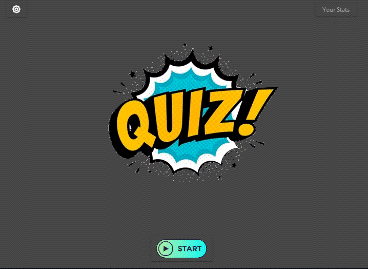
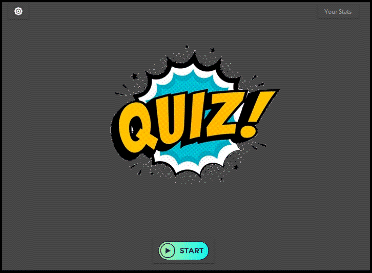
Final
Added frames to pictures.
Made the logo ico file into try and except.

Changed region(s): [[0.0, 0.0, 1.0, 1.0], [0.269, 0.1487, 0.7473, 0.6543]]

diff --git a/main_beta.py b/main_beta.py
@@ -306,8 +306,10 @@ while True :
     final=ttk.Frame(home)
     enter_name=ttk.Frame(home)
     #frames declaration end -->
-
-    home.iconbitmap("Assets/logo.ico")
+    try:
+        home.iconbitmap("Assets/logo.ico")
+    except:
+        pass
     home.resizable(False, False)
 
     #<--timer frame
@@ -317,7 +319,7 @@ while True :
 
     #info frame
     ttk.Label(info,text="Trivia Quiz",font="helveta 40 bold").pack(pady=10)
-    ttk.Label(info,text="Version: 1.0.4 Beta",font="helveta 8 bold").pack()
+    ttk.Label(info,text="Version: 1.0.6 Beta",font="helveta 8 bold").pack()
     
     ttk.Button(info,text='Return to Mainmenu',command=lambda:raise_frame(intro)).pack(side=BOTTOM, pady=10)
     ttk.Label(info,text="Made in INDIA",font="helveta 30 bold").pack(side=BOTTOM, pady=10)
@@ -410,6 +412,8 @@ while True :
     prev4=PhotoImage(file='Assets/Preview/4.png')
     prev5=PhotoImage(file='Assets/Preview/5.png')
     prev6=PhotoImage(file='Assets/Preview/6.png')
+    prev7=PhotoImage(file='Assets/Preview/7.png')
+
     thm_prv_list=[prev0,prev1,prev2,prev3,prev4,prev5,prev6]
 
 
@@ -435,8 +439,11 @@ while True :
     thm6.grid(row=1,column=2)
     thm6.bind("<Enter>",func=lambda e: thm_prev.config(image=prev5 ))
     thm7=ttk.Button(innerframe,text='ITFT1',command=lambda:themeset('itft1'))
-    thm7.grid(row=2,column=1)
+    thm7.grid(row=2,column=0)
     thm7.bind("<Enter>",func=lambda e: thm_prev.config(image=prev6 ))
+    thm8=ttk.Button(innerframe,text='Keramik',command=lambda:themeset('keramik'))
+    thm8.grid(row=2,column=1)
+    thm8.bind("<Enter>",func=lambda e: thm_prev.config(image=prev7 ))
     ttk.Label(theme_window, text="Preview" , font="lucida 12").pack(pady=5)
     thm_prev=ttk.Label(theme_window,image='')
     thm_prev.pack()
@@ -445,7 +452,7 @@ while True :
     ttk.Button(theme_window,text='Return to Mainmenu',command=lambda:raise_frame(intro)).pack(side=BOTTOM , pady=5)
 
 
-    for i in (thm1,thm1,thm2,thm3,thm4,thm5,thm6,thm7):
+    for i in (thm1,thm1,thm2,thm3,thm4,thm5,thm6,thm7,thm8):
         i.bind("<Leave>",func=lambda e: thm_prev.config(image=''))
 
     

diff --git a/main.py b/main.py
@@ -306,8 +306,10 @@ while True :
     final=ttk.Frame(home)
     enter_name=ttk.Frame(home)
     #frames declaration end -->
-
-    home.iconbitmap("Assets/logo.ico")
+    try:
+        home.iconbitmap("Assets/logo.ico")
+    except:
+        pass
     home.resizable(False, False)
 
     #<--timer frame
@@ -317,7 +319,7 @@ while True :
 
     #info frame
     ttk.Label(info,text="Trivia Quiz",font="helveta 40 bold").pack(pady=10)
-    ttk.Label(info,text="Version: 1.0.4",font="helveta 8 bold").pack()
+    ttk.Label(info,text="Version: 1.0.5",font="helveta 8 bold").pack()
     
     ttk.Button(info,text='Return to Mainmenu',command=lambda:raise_frame(intro)).pack(side=BOTTOM, pady=10)
     ttk.Label(info,text="Made in INDIA",font="helveta 30 bold").pack(side=BOTTOM, pady=10)
@@ -410,6 +412,8 @@ while True :
     prev4=PhotoImage(file='Assets/Preview/4.png')
     prev5=PhotoImage(file='Assets/Preview/5.png')
     prev6=PhotoImage(file='Assets/Preview/6.png')
+    prev7=PhotoImage(file='Assets/Preview/7.png')
+
     thm_prv_list=[prev0,prev1,prev2,prev3,prev4,prev5,prev6]
 
 
@@ -435,8 +439,11 @@ while True :
     thm6.grid(row=1,column=2)
     thm6.bind("<Enter>",func=lambda e: thm_prev.config(image=prev5 ))
     thm7=ttk.Button(innerframe,text='ITFT1',command=lambda:themeset('itft1'))
-    thm7.grid(row=2,column=1)
+    thm7.grid(row=2,column=0)
     thm7.bind("<Enter>",func=lambda e: thm_prev.config(image=prev6 ))
+    thm8=ttk.Button(innerframe,text='Keramik',command=lambda:themeset('keramik'))
+    thm8.grid(row=2,column=1)
+    thm8.bind("<Enter>",func=lambda e: thm_prev.config(image=prev7 ))
     ttk.Label(theme_window, text="Preview" , font="lucida 12").pack(pady=5)
     thm_prev=ttk.Label(theme_window,image='')
     thm_prev.pack()
@@ -445,7 +452,7 @@ while True :
     ttk.Button(theme_window,text='Return to Mainmenu',command=lambda:raise_frame(intro)).pack(side=BOTTOM , pady=5)
 
 
-    for i in (thm1,thm1,thm2,thm3,thm4,thm5,thm6,thm7):
+    for i in (thm1,thm1,thm2,thm3,thm4,thm5,thm6,thm7,thm8):
         i.bind("<Leave>",func=lambda e: thm_prev.config(image=''))
 
     
